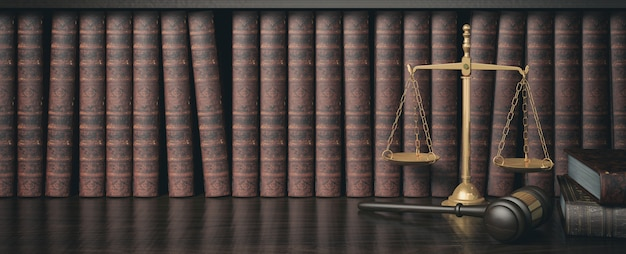
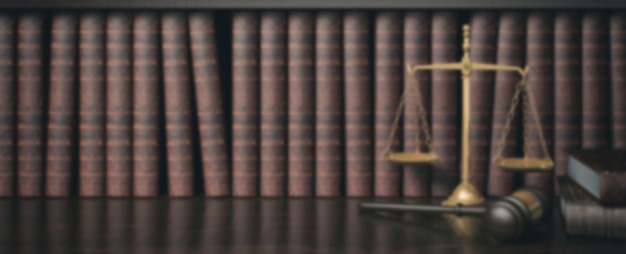
stop

diff --git a/my-next-app/src/app/page.tsx b/my-next-app/src/app/page.tsx
@@ -26,8 +26,8 @@ export default function HomePage() {
       <Navbar />
         <section className="relative bg-black flex flex-col items-center justify-center gap-10 min-h-screen py-20 overflow-hidden ">
           <div
-            className="absolute inset-0 bg-center bg-cover bg-fixed brightness-50 blur-sm"
-            style={{ backgroundImage: "url('/img/sfondo-home.jpeg')" }}
+            className="absolute inset-0 bg-center bg-cover bg-fixed brightness-60 blur-sm"
+            style={{ backgroundImage: "url('/img/sfondo-homeb.jpg')" }}
           ></div>
 
           <div className="relative z-10 p-6 rounded-r-xl mt-20 ">
@@ -41,7 +41,7 @@ export default function HomePage() {
               Avvocato Civile specializzato in Diritto del Lavoro, Immobili e Condomini a Catania ed Enna
             </p>
           </div>
-          <a href="#focus-section" className="z-10 mt-24 motion-preset-oscillate motion-duration-1500 scroll-smooth">
+          <a href="#focus-section" className="z-10 mt-12 lg:mt-24 motion-preset-oscillate motion-duration-1500 scroll-smooth">
             <svg
               xmlns="http://www.w3.org/2000/svg"
               className="h-12 w-12 md:w-16 md:h-16 text-white opacity-80 cursor-pointer"
@@ -102,20 +102,20 @@ export default function HomePage() {
           />
         </div>
         <div className="lg:w-1/2 text-left bg-white p-8 rounded-sm shadow-md flex flex-col justify-between" data-aos="fade-right" data-aos-delay="300" data-aos-easing="ease-in" data-aos-duration="500" >
-          <h2 className="font-titolo2 text-3xl lg:text-4xl font-semibold text-blue-900 my-4">Io sono Giuseppe Auletta</h2>
+          <h2 className="font-titolo2 text-center lg:text-left text-3xl lg:text-4xl font-semibold text-blue-900 my-4">Io sono Giuseppe Auletta</h2>
           <p className="text-gray-700 mb-6 ">
             Avvocato civile specializzato in <b>Diritto del Lavoro, Immobili e Condomini a Catania ed Enna.</b> <br /><br />
             Dal 2011, all’età di 28 anni, ho intrapreso ufficialmente la mia carriera da Avvocato Civilista. Nel 2022 ho conseguito anche l’abilitazione alle difese in Cassazione. <br /><br />
             La mia passione per il diritto è nata al liceo: da rappresentante d’istituto, capii che conoscere le regole significava poterle usare per risolvere problemi reali e migliorare la vita degli altri. <br /><br />Oggi rappresento <b>lavoratori, inquilini e affittuari</b> per assicurare il rispetto dei loro diritti, offrendo un supporto mirato e trasparente che tuteli la loro stabilità e serenità quotidiana. <br /><br />Per me, la trasparenza avvocato-assistito non è uno slogan: se una causa non ha basi solide, lo dico subito. Anche se significa mettere da parte il mio interesse personale. Preferisco trovare alternative efficienti, e non offrire false speranze. <br /><br />La mia formazione è il frutto di passione e rigore, che mi hanno portato a laurearmi con 110 e lode. Con quello stesso spirito affronto ogni incarico, <b>per aiutare le persone a risolvere problemi reali e a riprendersi ciò che è giusto.</b><br /><br />Dopo l’abilitazione professionale… 
           </p>
           <div className='flex flex-row justify-between '>
-          <Link href="/chi-sono" className="text-blue-900 font-medium hover:underline text-sm">Scopri chi sono →</Link>
+          <Link href="/chi-sono" className="text-blue-900 font-medium hover:underline text-xs md:text-sm">Scopri chi sono →</Link>
           <button onClick={() => {     
           const phoneNumber = "393283744899";        
           const message = encodeURIComponent("Ciao, vorrei richiedere una consulenza. Potrei avere maggiori informazioni?");
           const whatsappUrl = `https://wa.me/${phoneNumber}?text=${message}`;
           window.open(whatsappUrl, "_blank");
-        }} className='px-4 py-4 w-fit bg-white rounded-sm shadow border-2 border-blue-900 hover:border-white hover:bg-blue-950 hover:text-white text-blue-900 hover:scale-105 transition ease-in-out duration-400 cursor-pointer '>Richiedi consulenza</button>
+        }} className='px-2 py-2 lg:px-4 lg:py-4 w-fit bg-white rounded-sm shadow border-2 border-blue-900 hover:border-white hover:bg-blue-950 hover:text-white text-blue-900 hover:scale-105 transition ease-in-out duration-400 cursor-pointer '>Richiedi consulenza</button>
           </div>
         </div>
       </section>

diff --git a/my-next-app/src/app/chi-sono/page.tsx b/my-next-app/src/app/chi-sono/page.tsx
@@ -34,7 +34,7 @@ export default function ChiSono() {
                   />
                 </div>
           <div className="xl:w-1/2 lg:max-w-5xl  bg-white bg-opacity-80 p-6 md:p-10 rounded-sm shadow-lg" data-aos="fade-right" data-aos-delay="300" data-aos-easing="ease-in" data-aos-duration="500">
-            <h1 className="text-4xl sm:text-5xl font-bold text-blue-900 mb-6 font-titolo tracking-wide ">
+            <h1 className="text-4xl sm:text-5xl text-center lg:text-left font-bold text-blue-900 mb-6 font-titolo tracking-wide ">
               Sono Giuseppe Auletta
             </h1>
             <p className="text-md leading-relaxed">
@@ -64,7 +64,7 @@ export default function ChiSono() {
       {/* Sezione 2 - Background e valori familiari */}
       <section className="relative z-10  mx-10 2xl:mx-18 my-16  flex flex-col-reverse xl:flex-row items-center " >
       <div className="xl:w-1/2 lg:max-w-5xl  bg-white bg-opacity-80 p-6 md:p-10 rounded-sm shadow-lg" data-aos="fade-left" data-aos-delay="300" data-aos-easing="ease-in" data-aos-duration="500">
-        <h1 className="text-3xl sm:text-4xl font-bold text-blue-900 mb-6 font-titolo tracking-wide">Una famiglia a servizio dei Diritti e della Giustizia</h1>
+        <h1 className="text-3xl sm:text-4xl text-center lg:text-left font-bold text-blue-900 mb-6 font-titolo tracking-wide">Una famiglia a servizio dei Diritti e della Giustizia</h1>
         <p className="text-md leading-relaxed">
           Mio nonno, Giuseppe Giacomo Auletta, è stato uno studioso di Diritto Commerciale di fama mondiale, docente e Preside della Facoltà di Giurisprudenza di Catania, Accademico dei Lincei, Commendatore, oggi dedicatario di una via a Catania proprio nella zona del Dipartimento di Giurisprudenza e reso famoso tra gli studenti di Giurisprudenza anche dal <b>Manuale di Diritto Commerciale Auletta – Salanitro, tuttora in uso in molti Dipartimenti di Giurisprudenza ed Economia in tutta Italia.</b>
         </p>

diff --git a/my-next-app/src/app/blog/page.tsx b/my-next-app/src/app/blog/page.tsx
@@ -133,7 +133,7 @@ export default function BlogPage() {
       {/* Hero + Dropdown */}
       <section className="relative h-72 bg-fixed bg-center bg-cover flex flex-col justify-center text-white bg-black mt-40">
         <div
-          className="absolute inset-0 bg-center bg-cover bg-fixed brightness-30 blur-sm"
+          className="absolute inset-0 bg-center bg-cover bg-fixed brightness-50 blur-sm"
           style={{ backgroundImage: "url('/img/blog-bg.jpg')" }}
         />
         <div className="relative z-10 px-12 lg:px-24">

diff --git a/my-next-app/src/app/components/BlogCarousel.tsx b/my-next-app/src/app/components/BlogCarousel.tsx
@@ -100,7 +100,7 @@ const BlogCarousel = () => {
     <section className="relative py-16 px-6 lg:px-12 my-10 overflow-hidden bg-black">
       {/* Sfondo con effetto parallax */}
       <div
-        className="absolute inset-0 bg-center bg-cover bg-fixed brightness-40 blur-xs z-10"
+        className="absolute inset-0 bg-center bg-cover bg-fixed brightness-60 blur-xs z-10"
         style={{ backgroundImage: "url('/img/carousel-bg2.jpg')" }}
       ></div>
 
